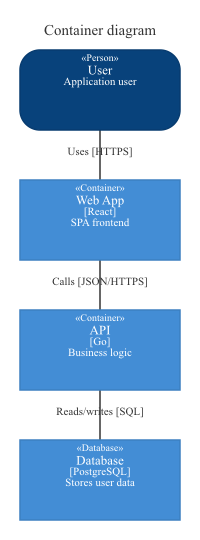
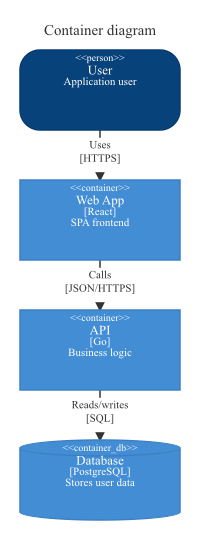
c4: cylinder DB shape, mmdc-style stereotypes, polish edges (#80)
* c4: cylinder DB shape, mmdc-style stereotypes, polish edges

Five visible regressions vs mermaid-cli on examples/c4/{context,
container}.mmd:

1. Stereotype tags read «Person»/«Database»/«System, External» —
   mmdc emits <<person>>/<<container_db>>/<<external_system>>.
   Switched to lowercase snake_case in `<<...>>` brackets.
2. SystemDB / ContainerDB rendered as plain rectangles. mmdc draws a
   cylinder. Reused the cylinder geometry from flowchart/nodes.go.
3. Edge label "Uses [HTTPS]" rendered as one text line. mmdc puts the
   technology bracket on its own line — split label and tech into
   separate <text> rows centered at LabelPos.
4. 3+-waypoint edges were sharp polylines. Switched to
   svgutil.CatmullRomPath, the helper extracted in PR #75.
5. Edges had no endpoint clipping (same bug PR #72/79 fixed for
   flowchart and state) so arrowheads were buried inside destination
   boxes. Added svgutil.ClipToRectEdge for both endpoints, with the
   srcDir/dstDir aliasing-cache pattern.

Also bumped the c4-arrow marker to 12×12 to match state/class/ER and
routed labels through svgutil.LabelChip for chip-style backdrops.

Examples regenerated.

* c4 + flowchart: route cylinder shape through svgutil.CylinderPath

Reviewer flag — cylinderPath was duplicated between flowchart and C4
with bit-identical math. Followed the precedent set by CatmullRomPath
(PR #75) and LabelChip (PR #76): extracted to svgutil with the
cylinderEllipseRY constant, dropped both local copies.
[…]

diff --git a/pkg/renderer/c4/renderer.go b/pkg/renderer/c4/renderer.go
@@ -9,6 +9,7 @@ import (
 	"github.com/julianshen/mmgo/pkg/diagram"
 	"github.com/julianshen/mmgo/pkg/layout"
 	"github.com/julianshen/mmgo/pkg/layout/graph"
+	"github.com/julianshen/mmgo/pkg/renderer/svgutil"
 	"github.com/julianshen/mmgo/pkg/textmeasure"
 )
 
@@ -80,7 +81,7 @@ func Render(d *diagram.C4Diagram, opts *Options) ([]byte, error) {
 		})
 	}
 
-	children = append(children, renderEdges(d, l, pad, titleOffset, fontSize, th)...)
+	children = append(children, renderEdges(d, l, pad, titleOffset, fontSize, th, ruler)...)
 	children = append(children, renderElements(d, l, pad, titleOffset, fontSize, th)...)
 
 	svg := svgDoc{
@@ -144,18 +145,29 @@ func renderElements(d *diagram.C4Diagram, l *layout.Result, pad, titleOff, fontS
 		y := cy - h/2
 
 		p := th.roleOf(e.Kind)
+		shapeStyle := fmt.Sprintf("fill:%s;stroke:%s;stroke-width:1.5", p.Fill, p.Stroke)
 
-		rx := svgFloat(0)
-		if e.Kind == diagram.C4ElementPerson || e.Kind == diagram.C4ElementPersonExt {
-			rx = svgFloat(h / 4)
+		switch e.Kind {
+		case diagram.C4ElementSystemDB, diagram.C4ElementContainerDB:
+			// Cylinder glyph signals "this is a datastore" — the
+			// shape mmdc uses for DB-kind C4 elements.
+			elems = append(elems, &path{D: svgutil.CylinderPath(cx, cy, w, h), Style: shapeStyle})
+		case diagram.C4ElementPerson, diagram.C4ElementPersonExt:
+			// Strongly rounded corners hint at a "person" shape
+			// without requiring an embedded icon.
+			rx := svgFloat(h / 4)
+			elems = append(elems, &rect{
+				X: svgFloat(x), Y: svgFloat(y),
+				Width: svgFloat(w), Height: svgFloat(h),
+				RX: rx, RY: rx, Style: shapeStyle,
+			})
+		default:
+			elems = append(elems, &rect{
+				X: svgFloat(x), Y: svgFloat(y),
+				Width: svgFloat(w), Height: svgFloat(h),
+				Style: shapeStyle,
+			})
 		}
-
-		elems = append(elems, &rect{
-			X: svgFloat(x), Y: svgFloat(y),
-			Width: svgFloat(w), Height: svgFloat(h),
-			RX: rx, RY: rx,
-			Style: fmt.Sprintf("fill:%s;stroke:%s;stroke-width:1.5", p.Fill, p.Stroke),
-		})
 
 		curY := y + kindLabelH
 		kindLabel := kindDisplayLabel(e.Kind)
@@ -193,30 +205,36 @@ func renderElements(d *diagram.C4Diagram, l *layout.Result, pad, titleOff, fontS
 	return elems
 }
 
+// kindDisplayLabel returns the stereotype tag shown above an element's
+// label. Format mirrors mmdc: lowercase snake_case wrapped in `<<...>>`
+// (e.g. `<<container_db>>`, `<<external_system>>`) instead of the
+// French-quote `«Person»` style mmgo originally used.
 func kindDisplayLabel(k diagram.C4ElementKind) string {
+	name := ""
 	switch k {
 	case diagram.C4ElementPerson:
-		return "«Person»"
+		name = "person"
 	case diagram.C4ElementPersonExt:
-		return "«Person, External»"
+		name = "external_person"
 	case diagram.C4ElementSystem:
-		return "«System»"
+		name = "system"
 	case diagram.C4ElementSystemExt:
-		return "«System, External»"
+		name = "external_system"
 	case diagram.C4ElementSystemDB:
-		return "«Database»"
+		name = "system_db"
 	case diagram.C4ElementContainer:
-		return "«Container»"
+		name = "container"
 	case diagram.C4ElementContainerDB:
-		return "«Database»"
+		name = "container_db"
 	case diagram.C4ElementComponent:
-		return "«Component»"
+		name = "component"
 	default:
 		return ""
 	}
+	return "<<" + name + ">>"
 }
 
-func renderEdges(d *diagram.C4Diagram, l *layout.Result, pad, titleOff, fontSize float64, th Theme) []any {
+func renderEdges(d *diagram.C4Diagram, l *layout.Result, pad, titleOff, fontSize float64, th Theme, ruler *textmeasure.Ruler) []any {
 	edgeKeys := make([]graph.EdgeID, 0, len(l.Edges))
 	for eid := range l.Edges {
 		edgeKeys = append(edgeKeys, eid)
@@ -252,6 +270,19 @@ func renderEdges(d *diagram.C4Diagram, l *layout.Result, pad, titleOff, fontSize
 		for i, p := range el.Points {
 			pts[i] = layout.Point{X: p.X + pad, Y: p.Y + pad + titleOff}
 		}
+		// Cache direction references before clipping (pts[1] and
+		// pts[len-2] alias for 2-point edges) so the destination clip
+		// doesn't read the already-clipped source as its direction.
+		srcDir := pts[1]
+		dstDir := pts[len(pts)-2]
+		if src, ok := l.Nodes[eid.From]; ok {
+			x, y := svgutil.ClipToRectEdge(src.X+pad, src.Y+pad+titleOff, src.Width, src.Height, srcDir.X, srcDir.Y)
+			pts[0] = layout.Point{X: x, Y: y}
+		}
+		if dst, ok := l.Nodes[eid.To]; ok {
+			x, y := svgutil.ClipToRectEdge(dst.X+pad, dst.Y+pad+titleOff, dst.Width, dst.Height, dstDir.X, dstDir.Y)
+			pts[len(pts)-1] = layout.Point{X: x, Y: y}
+		}
 
 		style := fmt.Sprintf("stroke:%s;stroke-width:1.5;fill:none", th.EdgeStroke)
 		if len(pts) == 2 {
@@ -261,35 +292,53 @@ func renderEdges(d *diagram.C4Diagram, l *layout.Result, pad, titleOff, fontSize
 				Style: style, MarkerEnd: "url(#c4-arrow)",
 			})
 		} else {
-			pathD := fmt.Sprintf("M%.2f,%.2f", pts[0].X, pts[0].Y)
-			for _, p := range pts[1:] {
-				pathD += fmt.Sprintf(" L%.2f,%.2f", p.X, p.Y)
-			}
-			elems = append(elems, &path{D: pathD, Style: style, MarkerEnd: "url(#c4-arrow)"})
+			elems = append(elems, &path{
+				D:         svgutil.CatmullRomPath(pts, svgutil.CatmullRomTension),
+				Style:     style,
+				MarkerEnd: "url(#c4-arrow)",
+			})
 		}
 
 		if rel.Label != "" {
 			lx := el.LabelPos.X + pad
 			ly := el.LabelPos.Y + pad + titleOff
-			label := rel.Label
+			labelFont := fontSize - 2
+			// Label on first line, optional [technology] on the second
+			// — matches how mmdc breaks long edge captions.
+			lines := []string{rel.Label}
 			if rel.Technology != "" {
-				label = rel.Label + " [" + rel.Technology + "]"
+				lines = append(lines, "["+rel.Technology+"]")
 			}
-			elems = append(elems, &text{
-				X: svgFloat(lx), Y: svgFloat(ly),
-				Anchor: "middle", Dominant: "central",
-				Style:   fmt.Sprintf("fill:%s;font-size:%.0fpx", th.EdgeText, fontSize-2),
-				Content: label,
-			})
+			lineH := labelFont * 1.2
+			totalH := lineH * float64(len(lines))
+			var maxW float64
+			for _, ln := range lines {
+				w, _ := ruler.Measure(ln, labelFont)
+				if w > maxW {
+					maxW = w
+				}
+			}
+			elems = append(elems, svgutil.LabelChip(lx, ly, maxW, totalH, 4, th.Background, 3))
+			startY := ly - totalH/2 + lineH/2
+			for i, ln := range lines {
+				elems = append(elems, &text{
+					X: svgFloat(lx), Y: svgFloat(startY + float64(i)*lineH),
+					Anchor: "middle", Dominant: "central",
+					Style:   fmt.Sprintf("fill:%s;font-size:%.0fpx", th.EdgeText, labelFont),
+					Content: ln,
+				})
+			}
 		}
 	}
 	return elems
 }
 
+// buildArrowMarker — width/height 12 matches state, class, ER. The
+// previous 8×8 was barely visible against the 1.5px edge stroke.
 func buildArrowMarker(th Theme) marker {
 	return marker{
 		ID: "c4-arrow", ViewBox: "0 0 10 10",
-		RefX: 9, RefY: 5, Width: 8, Height: 8, Orient: "auto",
+		RefX: 9, RefY: 5, Width: 12, Height: 12, Orient: "auto",
 		Children: []any{&polygon{Points: "0,0 10,5 0,10", Style: fmt.Sprintf("fill:%s", th.EdgeStroke)}},
 	}
 }

diff --git a/pkg/renderer/c4/renderer_test.go b/pkg/renderer/c4/renderer_test.go
@@ -52,7 +52,9 @@ func TestRenderElements(t *testing.T) {
 		t.Fatalf("Render: %v", err)
 	}
 	raw := string(out)
-	for _, want := range []string{">User<", ">System<", ">Uses<", "«Person»", "«System»"} {
+	// `<` is XML-escaped in text content, so the stereotype tag appears
+	// as `&lt;&lt;person&gt;&gt;` in the SVG body.
+	for _, want := range []string{">User<", ">System<", ">Uses<", "&lt;&lt;person&gt;&gt;", "&lt;&lt;system&gt;&gt;"} {
 		if !strings.Contains(raw, want) {
 			t.Errorf("missing %q", want)
 		}
@@ -94,10 +96,38 @@ func TestRenderRelationWithTechnology(t *testing.T) {
 	if err != nil {
 		t.Fatalf("Render: %v", err)
 	}
-	if !strings.Contains(string(out), "Calls [HTTP]") {
-		t.Error("label with technology missing")
+	raw := string(out)
+	// Label and tech now render as separate <text> elements (one per
+	// line), matching mmdc.
+	if !strings.Contains(raw, ">Calls<") {
+		t.Error("label text missing")
+	}
+	if !strings.Contains(raw, ">[HTTP]<") {
+		t.Error("technology text missing on its own line")
 	}
 	assertValidSVG(t, out)
+}
+
+// DB elements (SystemDB / ContainerDB) render as a cylinder, not a
+// plain rect — matches mmdc's database glyph.
+func TestRenderDBCylinder(t *testing.T) {
+	d := &diagram.C4Diagram{
+		Elements: []diagram.C4Element{
+			{ID: "db", Kind: diagram.C4ElementContainerDB, Label: "Postgres"},
+		},
+	}
+	out, err := Render(d, nil)
+	if err != nil {
+		t.Fatalf("Render: %v", err)
+	}
+	raw := string(out)
+	if !strings.Contains(raw, "<path") {
+		t.Error("expected <path> for cylinder body")
+	}
+	// Cylinder uses elliptic arcs ('A' command); a plain rect would not.
+	if !strings.Contains(raw, " A") {
+		t.Error("expected elliptic arc command in cylinder path")
+	}
 }
 
 func TestRenderCustomFontSize(t *testing.T) {

diff --git a/pkg/renderer/flowchart/nodes.go b/pkg/renderer/flowchart/nodes.go
@@ -7,11 +7,11 @@ import (
 
 	"github.com/julianshen/mmgo/pkg/diagram"
 	"github.com/julianshen/mmgo/pkg/layout"
+	"github.com/julianshen/mmgo/pkg/renderer/svgutil"
 )
 
 const (
 	polygonSkew        = 0.15
-	cylinderEllipseRY  = 0.1
 	defaultStrokeWidth = 1.5
 	doubleCircleGap    = 3.0
 	subroutineBand     = 0.1
@@ -68,7 +68,7 @@ func renderNode(n diagram.Node, nl layout.NodeLayout, pad float64, th Theme, fon
 	case diagram.NodeShapeAsymmetric:
 		elems = append(elems, &Polygon{Points: asymmetricPoints(cx, cy, w, h), Style: shapeStyle})
 	case diagram.NodeShapeCylinder:
-		elems = append(elems, &Path{D: cylinderPath(cx, cy, w, h), Style: shapeStyle})
+		elems = append(elems, &Path{D: svgutil.CylinderPath(cx, cy, w, h), Style: shapeStyle})
 	case diagram.NodeShapeSubroutine:
 		elems = append(elems, &Rect{
 			X: svgFloat(cx - w/2), Y: svgFloat(cy - h/2), Width: svgFloat(w), Height: svgFloat(h), Style: shapeStyle,
@@ -141,14 +141,3 @@ func asymmetricPoints(cx, cy, w, h float64) string {
 		cx+w/2, cy+h/2, cx-w/2, cy+h/2)
 }
 
-func cylinderPath(cx, cy, w, h float64) string {
-	ry := h * cylinderEllipseRY
-	top := cy - h/2 + ry
-	bot := cy + h/2 - ry
-	return fmt.Sprintf("M%.2f,%.2f L%.2f,%.2f A%.2f,%.2f 0 0,0 %.2f,%.2f "+
-		"L%.2f,%.2f A%.2f,%.2f 0 0,0 %.2f,%.2f "+
-		"M%.2f,%.2f A%.2f,%.2f 0 0,0 %.2f,%.2f",
-		cx-w/2, top, cx-w/2, bot, w/2, ry, cx+w/2, bot,
-		cx+w/2, top, w/2, ry, cx-w/2, top,
-		cx-w/2, top, w/2, ry, cx+w/2, top)
-}

diff --git a/pkg/renderer/svgutil/svgutil.go b/pkg/renderer/svgutil/svgutil.go
@@ -45,6 +45,29 @@ func CatmullRomPath(pts []layout.Point, tension float64) string {
 	return sb.String()
 }
 
+// CylinderEllipseRY is the cap-to-body height ratio for cylinder
+// shapes. 0.1 matches mmdc's flowchart database glyph; the C4
+// SystemDB/ContainerDB shapes reuse the same value for visual parity.
+const CylinderEllipseRY = 0.1
+
+// CylinderPath returns an SVG path "d" attribute for a vertical
+// cylinder centered at (cx, cy) with overall size (w, h). The shape is
+// rendered as two side lines, a bottom-cap arc, and a separate top-cap
+// arc (drawn with a second moveto so the rim reads as an ellipse over
+// an open top). Used by the flowchart cylinder node and the C4 DB
+// element shapes.
+func CylinderPath(cx, cy, w, h float64) string {
+	ry := h * CylinderEllipseRY
+	top := cy - h/2 + ry
+	bot := cy + h/2 - ry
+	return fmt.Sprintf("M%.2f,%.2f L%.2f,%.2f A%.2f,%.2f 0 0,0 %.2f,%.2f "+
+		"L%.2f,%.2f A%.2f,%.2f 0 0,0 %.2f,%.2f "+
+		"M%.2f,%.2f A%.2f,%.2f 0 0,0 %.2f,%.2f",
+		cx-w/2, top, cx-w/2, bot, w/2, ry, cx+w/2, bot,
+		cx+w/2, top, w/2, ry, cx-w/2, top,
+		cx-w/2, top, w/2, ry, cx+w/2, top)
+}
+
 // LabelChip returns a centered rounded-rect "chip" sized to wrap a
 // label of (textW, textH) with the given padding on every side.
 // The chip's center sits at (cx, cy) so callers can place it directly
